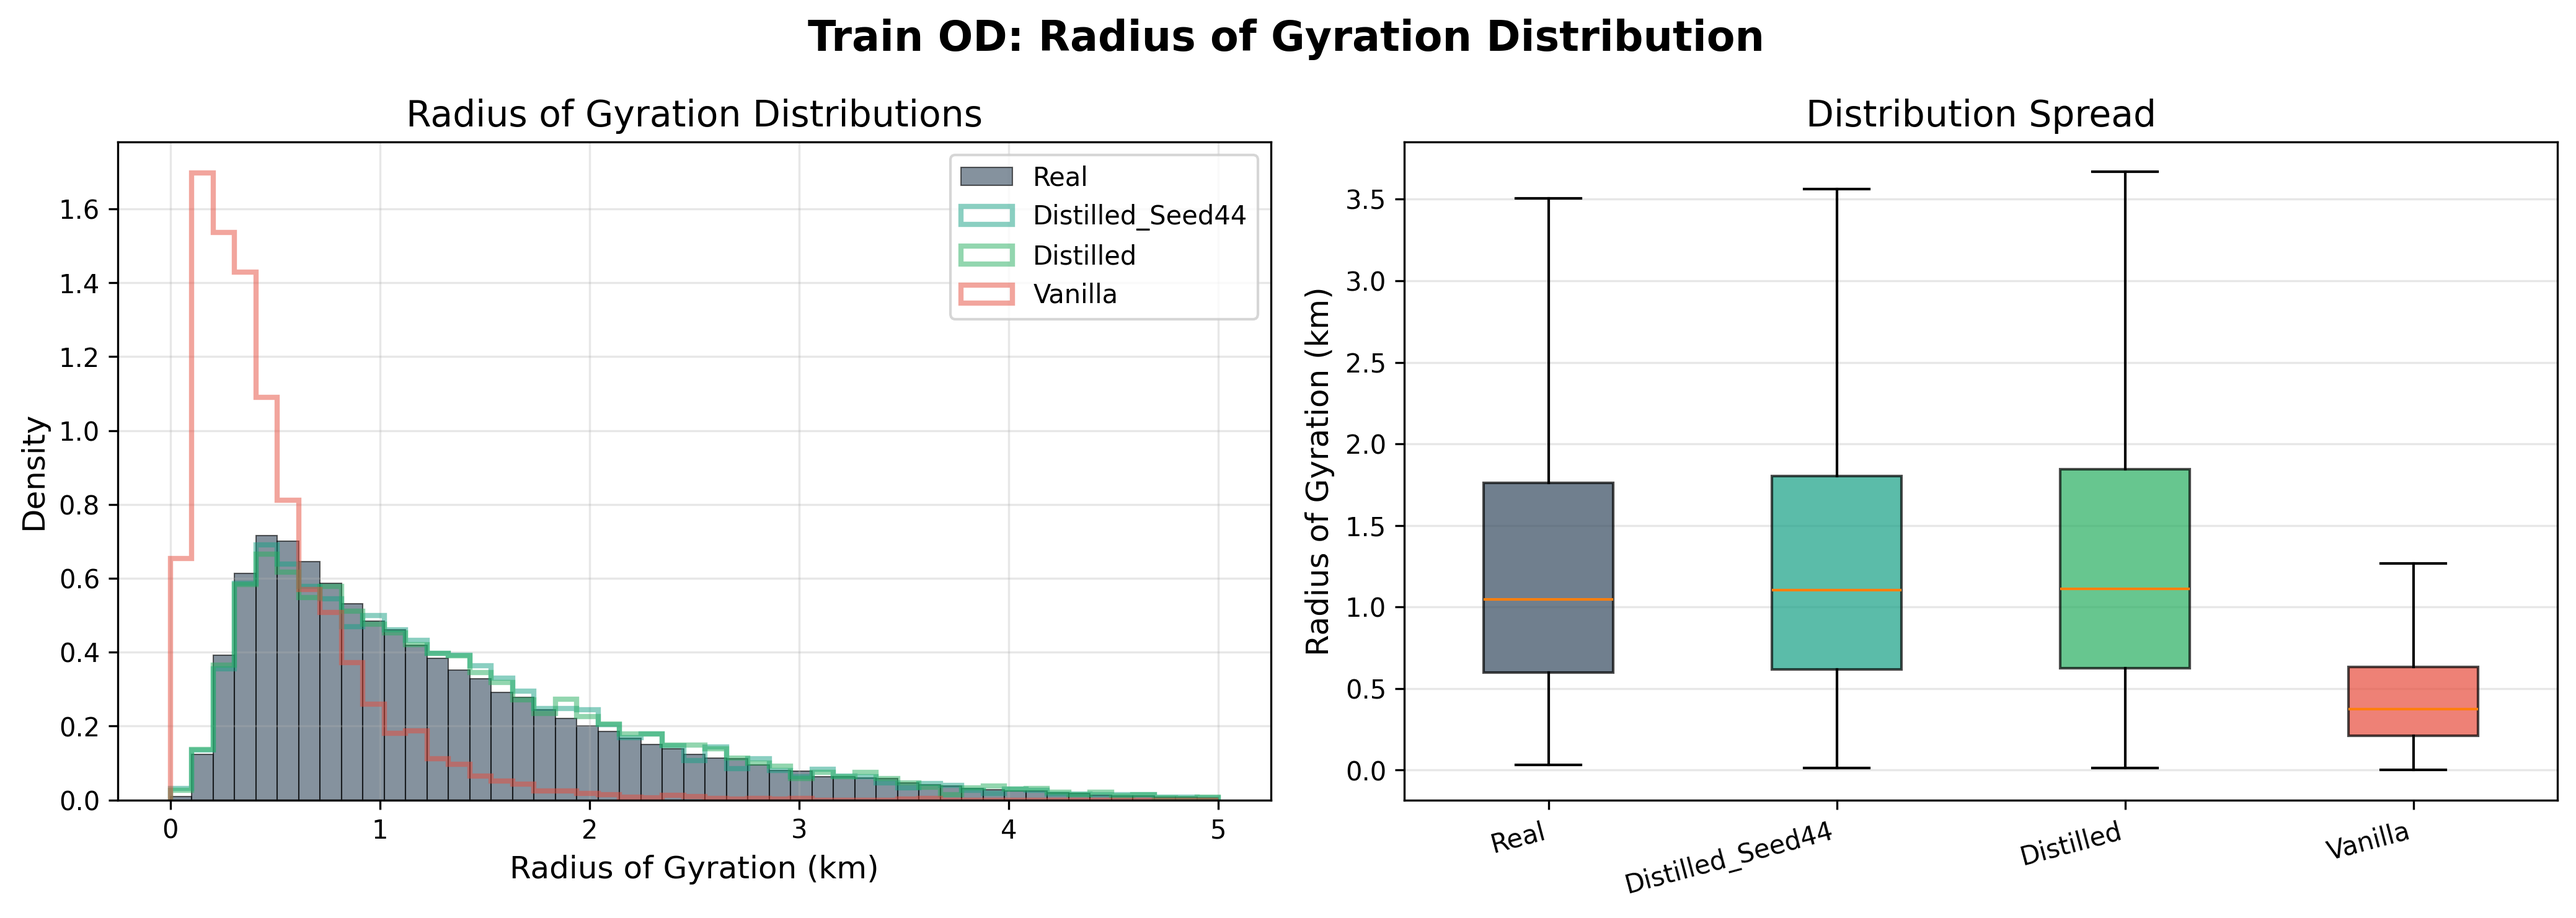
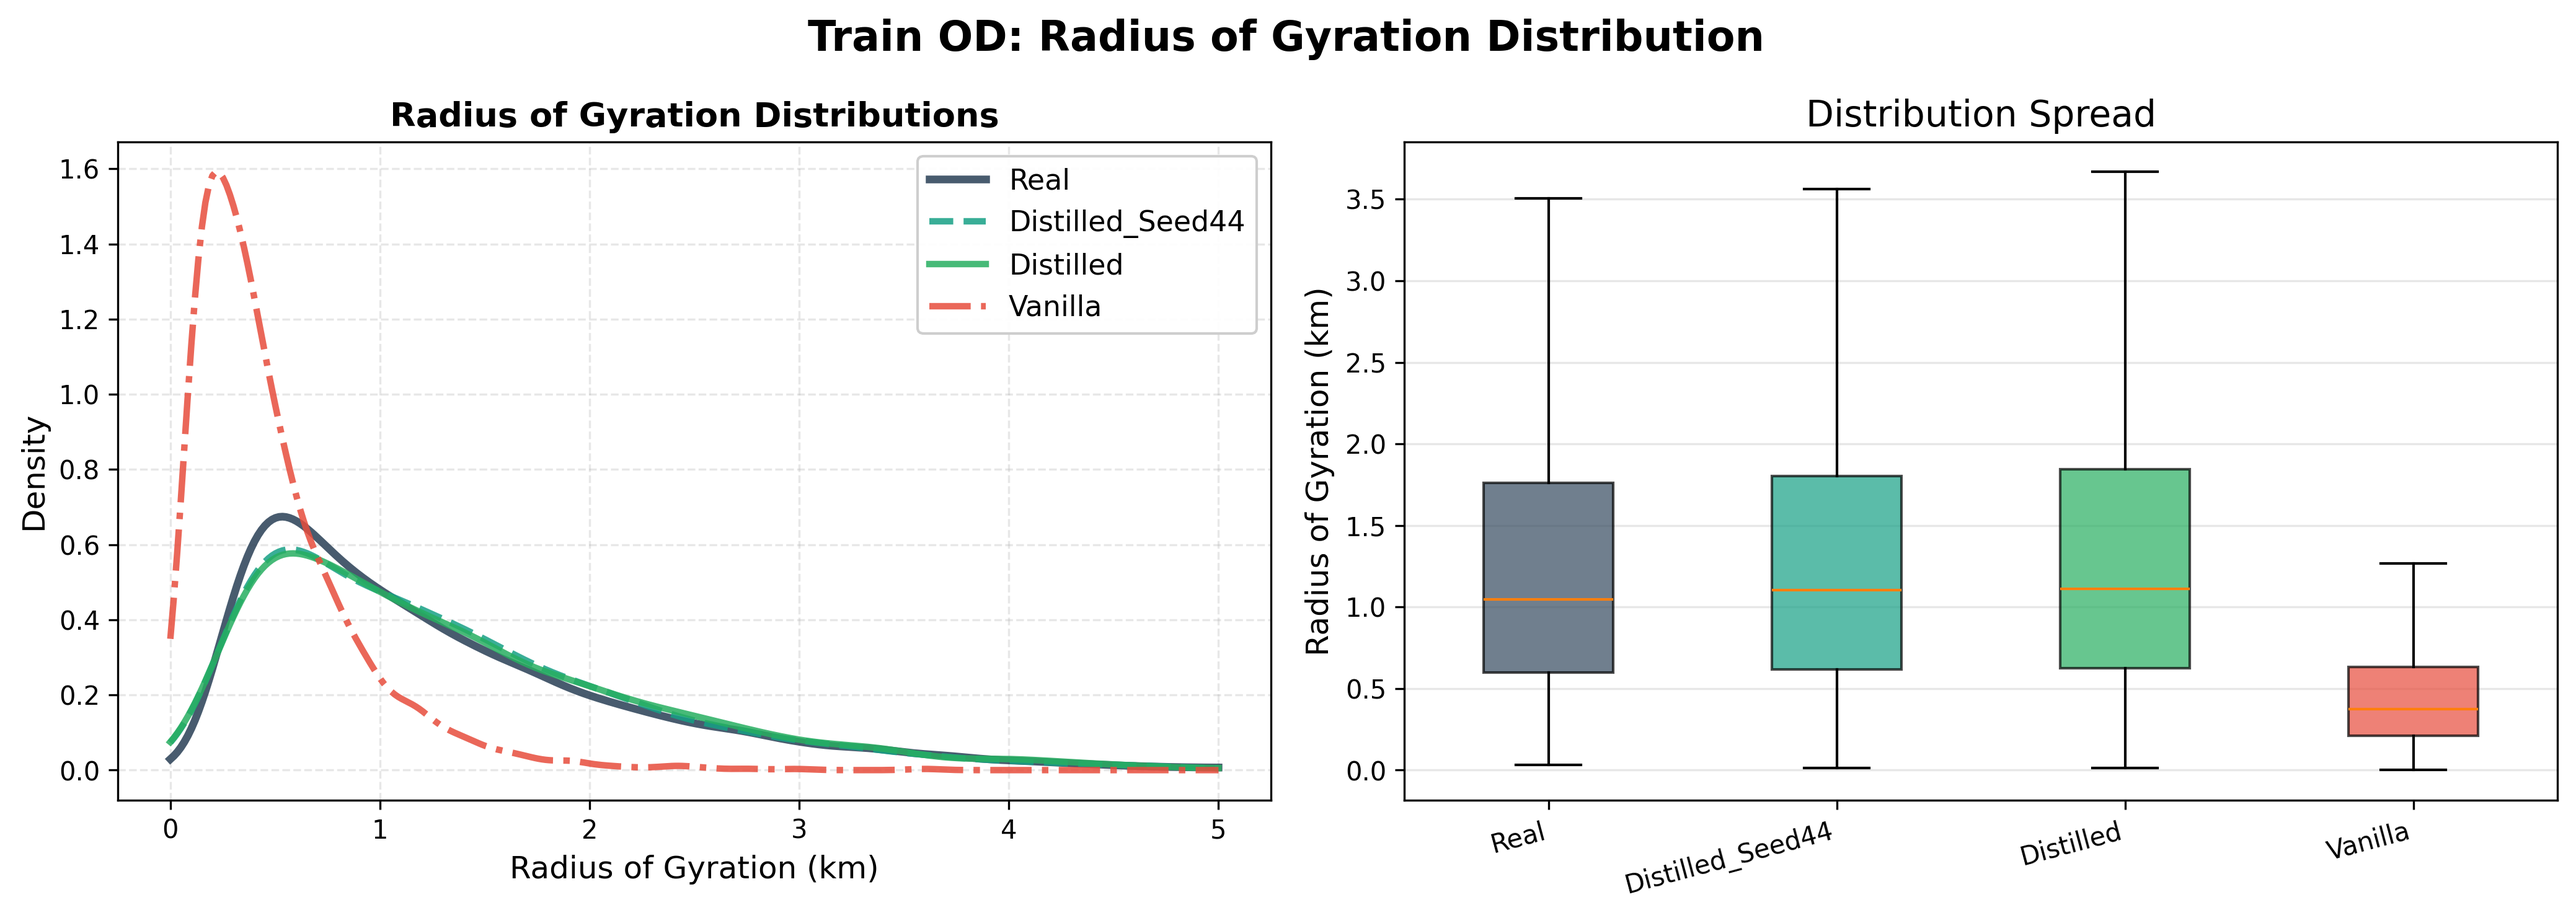
✨ improve: use clean KDE curves instead of histograms
Replaced filled histogram bars with smooth density curves:
- Much clearer and easier to read
- Smooth KDE (Kernel Density Estimation) curves
- Distinct line styles: Real (solid), Distilled (solid), Distilled_seed44 (dashed), Vanilla (dash-dot)
- Thicker real data line (3pt) for emphasis
- Consistent styling across all distribution plots

Benefits:
- No overlapping bars obscuring data
- Professional publication-quality appearance
- Easier to see distribution shapes and overlaps
- Clearer comparison between models

Fixed matplotlib deprecation warning (labels → tick_labels)

All 4 plots updated with consistent styling.

diff --git a/hoser-distill-optuna-6/create_distribution_plots.py b/hoser-distill-optuna-6/create_distribution_plots.py
@@ -268,23 +268,32 @@ class DistributionPlotter:
         """Create distance distribution comparison plot"""
         fig, (ax1, ax2) = plt.subplots(1, 2, figsize=(14, 5))
         
-        # Left: Histograms
-        bins = np.linspace(0, 30, 50)  # 0-30 km range
+        # Left: Density curves (KDE)
+        from scipy import stats
         
-        ax1.hist(real_distances, bins=bins, alpha=0.6, label='Real', 
-                color=COLORS['real_train'], density=True, edgecolor='black', linewidth=0.5)
+        x_range = np.linspace(0, 30, 300)  # Smooth curve with 300 points
         
-        for model_key, distances in generated_distances.items():
+        # Plot real data with thicker line
+        kde_real = stats.gaussian_kde(real_distances)
+        ax1.plot(x_range, kde_real(x_range), color=COLORS['real_train'], 
+                linewidth=3, label='Real', linestyle='-', alpha=0.9)
+        
+        # Plot generated models with distinct styles
+        linestyles = {'distilled': '-', 'distilled_seed44': '--', 'vanilla': '-.'}
+        for model_key, distances in sorted(generated_distances.items()):
             model_name = model_key.replace('_train', '').replace('_test', '')
             color = COLORS.get(model_name, '#95a5a6')
-            ax1.hist(distances, bins=bins, alpha=0.5, label=model_name.title(), 
-                    color=color, density=True, histtype='step', linewidth=2)
+            linestyle = linestyles.get(model_name, '-')
+            
+            kde = stats.gaussian_kde(distances)
+            ax1.plot(x_range, kde(x_range), color=color, linewidth=2.5,
+                    label=model_name.title(), linestyle=linestyle, alpha=0.85)
         
-        ax1.set_xlabel('Distance (km)')
-        ax1.set_ylabel('Density')
-        ax1.set_title('Distance Distributions')
-        ax1.legend()
-        ax1.grid(True, alpha=0.3)
+        ax1.set_xlabel('Distance (km)', fontsize=12)
+        ax1.set_ylabel('Density', fontsize=12)
+        ax1.set_title('Distance Distributions', fontsize=13, fontweight='bold')
+        ax1.legend(fontsize=11, framealpha=0.95)
+        ax1.grid(True, alpha=0.3, linestyle='--')
         
         # Right: Statistics comparison
         stats_data = []
@@ -339,23 +348,32 @@ class DistributionPlotter:
         """Create radius of gyration comparison plot"""
         fig, (ax1, ax2) = plt.subplots(1, 2, figsize=(14, 5))
         
-        # Left: Histograms
-        bins = np.linspace(0, 5, 50)  # 0-5 km range
+        # Left: Density curves (KDE)
+        from scipy import stats
         
-        ax1.hist(real_radii, bins=bins, alpha=0.6, label='Real', 
-                color=COLORS['real_train'], density=True, edgecolor='black', linewidth=0.5)
+        x_range = np.linspace(0, 5, 300)  # Smooth curve with 300 points
         
-        for model_key, radii in generated_radii.items():
+        # Plot real data with thicker line
+        kde_real = stats.gaussian_kde(real_radii)
+        ax1.plot(x_range, kde_real(x_range), color=COLORS['real_train'], 
+                linewidth=3, label='Real', linestyle='-', alpha=0.9)
+        
+        # Plot generated models with distinct styles
+        linestyles = {'distilled': '-', 'distilled_seed44': '--', 'vanilla': '-.'}
+        for model_key, radii in sorted(generated_radii.items()):
             model_name = model_key.replace('_train', '').replace('_test', '')
             color = COLORS.get(model_name, '#95a5a6')
-            ax1.hist(radii, bins=bins, alpha=0.5, label=model_name.title(), 
-                    color=color, density=True, histtype='step', linewidth=2)
+            linestyle = linestyles.get(model_name, '-')
+            
+            kde = stats.gaussian_kde(radii)
+            ax1.plot(x_range, kde(x_range), color=color, linewidth=2.5,
+                    label=model_name.title(), linestyle=linestyle, alpha=0.85)
         
-        ax1.set_xlabel('Radius of Gyration (km)')
-        ax1.set_ylabel('Density')
-        ax1.set_title('Radius of Gyration Distributions')
-        ax1.legend()
-        ax1.grid(True, alpha=0.3)
+        ax1.set_xlabel('Radius of Gyration (km)', fontsize=12)
+        ax1.set_ylabel('Density', fontsize=12)
+        ax1.set_title('Radius of Gyration Distributions', fontsize=13, fontweight='bold')
+        ax1.legend(fontsize=11, framealpha=0.95)
+        ax1.grid(True, alpha=0.3, linestyle='--')
         
         # Right: Box plots
         box_data = [real_radii]
@@ -368,7 +386,7 @@ class DistributionPlotter:
             box_labels.append(model_name.title())
             box_colors.append(COLORS.get(model_name, '#95a5a6'))
         
-        bp = ax2.boxplot(box_data, labels=box_labels, patch_artist=True, showfliers=False)
+        bp = ax2.boxplot(box_data, tick_labels=box_labels, patch_artist=True, showfliers=False)
         
         for patch, color in zip(bp['boxes'], box_colors):
             patch.set_facecolor(color)
